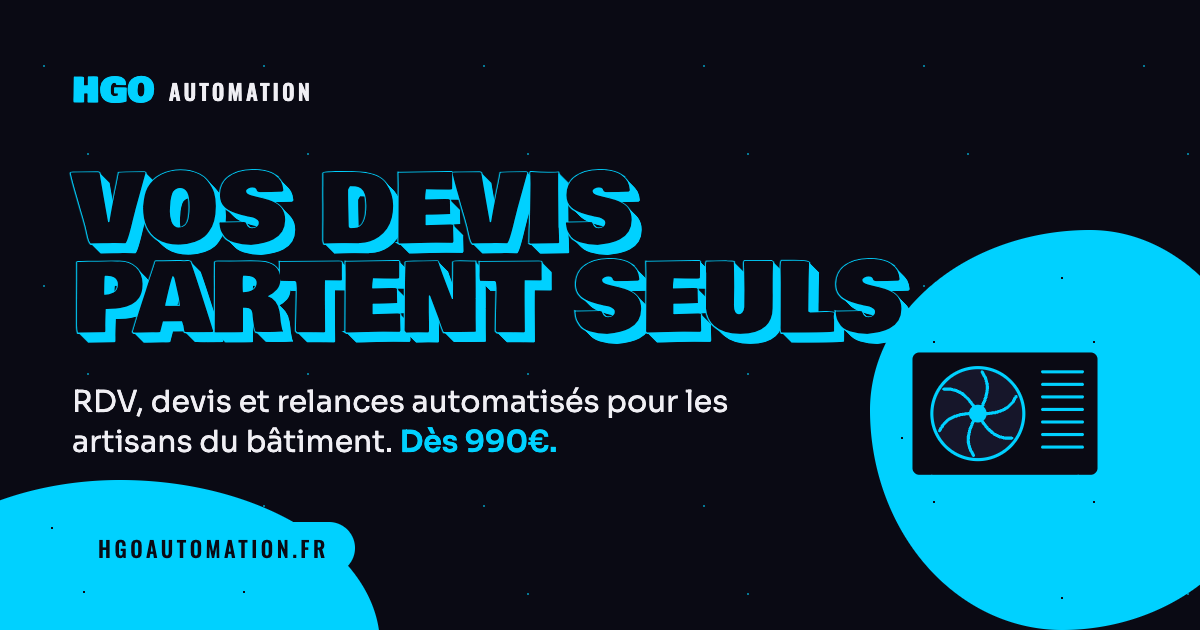
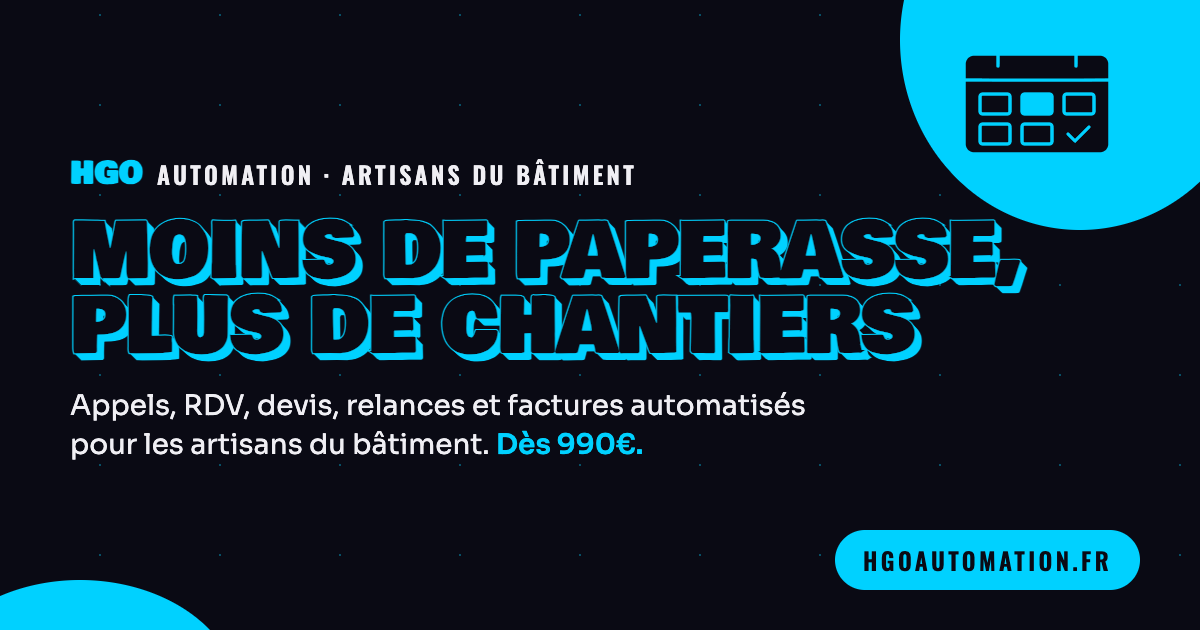
Accueil : message élargi au-delà des devis
Nouveau titre « Moins de paperasse, plus de chantiers », accroche et
cartes « Ce que ça change » qui citent standardiste IA, factures et
tableau de bord, image de partage régénérée.

diff --git a/src/App.jsx b/src/App.jsx
@@ -42,11 +42,11 @@ const Hero = ({ onOpenContact }) => {
       <Sparkle className="absolute w-8 right-[24%] top-[14%]" />
 
       <div className="relative z-20 flex flex-col items-center text-center px-5 pt-24 md:pt-28">
-        <motion.h1 initial={{ opacity: 0, y: 30 }} animate={{ opacity: 1, y: 0 }} transition={{ duration: 0.7 }} className="chunky text-[clamp(2.6rem,11vw,7.5rem)] !leading-[0.92]">
-          Vos devis<br />partent seuls
+        <motion.h1 initial={{ opacity: 0, y: 30 }} animate={{ opacity: 1, y: 0 }} transition={{ duration: 0.7 }} className="chunky text-[clamp(2.2rem,9vw,6.5rem)] !leading-[0.92]">
+          Moins de paperasse,<br />plus de chantiers
         </motion.h1>
         <motion.p initial={{ opacity: 0 }} animate={{ opacity: 1 }} transition={{ delay: 0.4 }} className="mt-8 max-w-lg text-ghost/85 text-lg md:text-xl leading-relaxed bg-void rounded-2xl px-4 py-1">
-          RDV, devis et relances automatisés pour les artisans du bâtiment. En service en 2 semaines, dès 990€.
+          Appels, RDV, devis, relances, factures : l'administratif des artisans du bâtiment, automatisé. En service en 2 semaines, dès 990€.
         </motion.p>
         <motion.div initial={{ opacity: 0, y: 10 }} animate={{ opacity: 1, y: 0 }} transition={{ delay: 0.6 }} className="mt-8 flex flex-wrap justify-center gap-3">
           <button onClick={() => onOpenContact('calendly')} className="btn-cyan"><Calendar className="w-4 h-4" /> Appel gratuit de {CALL_MIN} min</button>
@@ -63,15 +63,15 @@ const Hero = ({ onOpenContact }) => {
 };
 
 const BENEFITS = [
-  { icon: MessageSquare, title: 'Zéro appel manqué', desc: "Vos clients écrivent sur WhatsApp ou votre site, obtiennent une réponse immédiate et réservent leur créneau, même quand vous êtes sur un chantier." },
-  { icon: Send, title: 'Devis & relances automatiques', desc: "Vos devis partent le jour même et sont relancés automatiquement. Fini les devis oubliés qui partent chez le concurrent." },
+  { icon: MessageSquare, title: 'Zéro appel manqué', desc: "Une standardiste IA décroche au téléphone, un assistant répond sur WhatsApp : vos clients réservent leur créneau, même quand vous êtes sur un chantier." },
+  { icon: Send, title: 'Devis, factures & relances', desc: "Vos devis partent le jour même, vos factures aussi, et les relances se font toutes seules. Un tableau de bord vous montre où en est chaque client." },
   { icon: Calendar, title: 'Un agenda qui se remplit', desc: "RDV confirmés, rappels la veille, entretiens annuels relancés : votre planning se remplit sans passer vos journées au téléphone." },
 ];
 
 const BenefitsSection = () => (
   <section className="py-20 md:py-28 px-5 md:px-12" id="expertise">
     <div className="max-w-6xl mx-auto">
-      <SectionTitle label="Ce que ça change" className="mb-12">Moins de téléphone, <span className="text-cyan">plus de chantiers.</span></SectionTitle>
+      <SectionTitle label="Ce que ça change" className="mb-12">Tout ce qui se répète, <span className="text-cyan">automatisé.</span></SectionTitle>
       <div className="grid md:grid-cols-3 gap-6">
         {BENEFITS.map(({ icon: Icon, title, desc }) => (
           <div key={title} className="card-brut hoverable p-8 flex flex-col gap-4">
@@ -328,7 +328,7 @@ function App() {
         <meta name="description" content="RDV WhatsApp 24h/24, devis envoyés le jour même, relances automatiques : l'automatisation n8n et IA pour artisans et PME. En service en 2 semaines." />
         <meta property="og:locale" content="fr_FR" />
         <meta property="og:title" content="HGO Automation — Automatisation & IA pour artisans, bâtiment et PME" />
-        <meta property="og:description" content="RDV, devis et relances automatisés pour les artisans et PME. En service en 2 semaines, dès 990€. Formation n8n dès 290€." />
+        <meta property="og:description" content="Appels, RDV, devis, relances et factures automatisés pour les artisans et PME. En service en 2 semaines, dès 990€. Formation n8n dès 290€." />
         <meta property="og:url" content="https://www.hgoautomation.fr/" />
         <meta property="og:type" content="website" />
         <meta property="og:image" content="https://www.hgoautomation.fr/og-cover.png" />
@@ -336,7 +336,7 @@ function App() {
         <meta property="og:image:height" content="630" />
         <meta name="twitter:card" content="summary_large_image" />
         <meta name="twitter:title" content="HGO Automation — Automatisation & IA pour artisans, bâtiment et PME" />
-        <meta name="twitter:description" content="RDV, devis et relances automatisés pour les artisans et PME. En service en 2 semaines." />
+        <meta name="twitter:description" content="Appels, RDV, devis, relances et factures automatisés pour les artisans et PME. En service en 2 semaines." />
         <meta name="twitter:image" content="https://www.hgoautomation.fr/og-cover.png" />
         <link rel="canonical" href="https://www.hgoautomation.fr/" />
         <script type="application/ld+json">{JSON.stringify({

diff --git a/src/pages/APropos.jsx b/src/pages/APropos.jsx
@@ -37,7 +37,7 @@ export default function APropos() {
     <main className="min-h-screen text-ghost font-sans overflow-x-hidden">
       <Helmet>
         <title>À propos — Hugo Fonseca | HGO Automation</title>
-        <meta name="description" content="Hugo Fonseca, fondateur d'HGO Automation, ancien technico-commercial CVC. Il automatise RDV, devis et relances pour les artisans du bâtiment." />
+        <meta name="description" content="Hugo Fonseca, fondateur d'HGO Automation, ancien technico-commercial CVC. Il automatise appels, RDV, devis, relances et factures pour les artisans du bâtiment." />
         <link rel="canonical" href="https://www.hgoautomation.fr/a-propos" />
         <meta property="og:title" content="À propos — Hugo Fonseca | HGO Automation" />
         <meta property="og:url" content="https://www.hgoautomation.fr/a-propos" />
@@ -72,7 +72,7 @@ export default function APropos() {
               Hugo<br />Fonseca
             </motion.h1>
             <p className="text-lg md:text-xl text-ghost/80 leading-relaxed bg-void/80 rounded-2xl max-w-xl">
-              Fondateur d'HGO Automation. J'aide les artisans du bâtiment et les PME à ne plus perdre de clients à cause de l'administratif : RDV, devis et relances qui tournent tout seuls.
+              Fondateur d'HGO Automation. J'aide les artisans du bâtiment et les PME à ne plus perdre de clients à cause de l'administratif : appels, RDV, devis, relances et factures qui tournent tout seuls.
             </p>
             <div className="mt-8 flex flex-wrap gap-3">
               <button onClick={() => open('calendly')} className="btn-cyan"><Calendar className="w-4 h-4" /> Appel gratuit de {CALL_MIN} min</button>

diff --git a/index.html b/index.html
@@ -55,7 +55,7 @@
         "name": "Hugo Fonseca",
         "url": "https://www.hgoautomation.fr/a-propos"
       },
-      "description": "Automatisation des RDV, devis et relances pour les artisans du bâtiment et les PME : assistant WhatsApp, CRM, n8n et IA. En service en 2 semaines, dès 990€.",
+      "description": "Automatisation des appels, RDV, devis, relances et factures pour les artisans du bâtiment et les PME : assistant WhatsApp, CRM, n8n et IA. En service en 2 semaines, dès 990€.",
       "knowsAbout": ["Automatisation n8n", "Chatbot WhatsApp", "Agent IA", "CRM sur mesure", "CVC", "Plomberie", "Électricité", "Rénovation"],
       "sameAs": [
         "https://www.linkedin.com/in/hugo-fonseca-6b53603aa",
